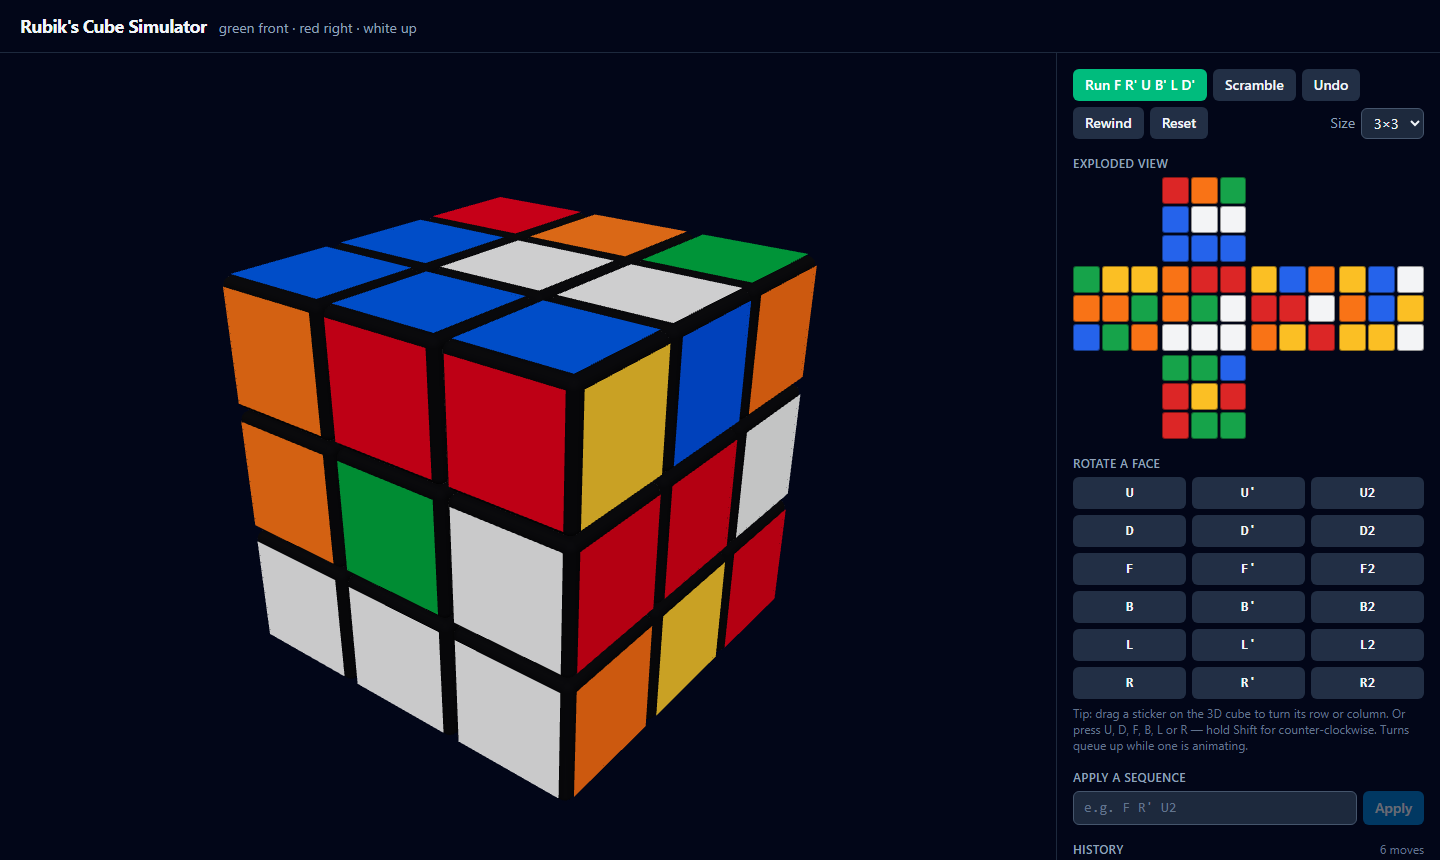
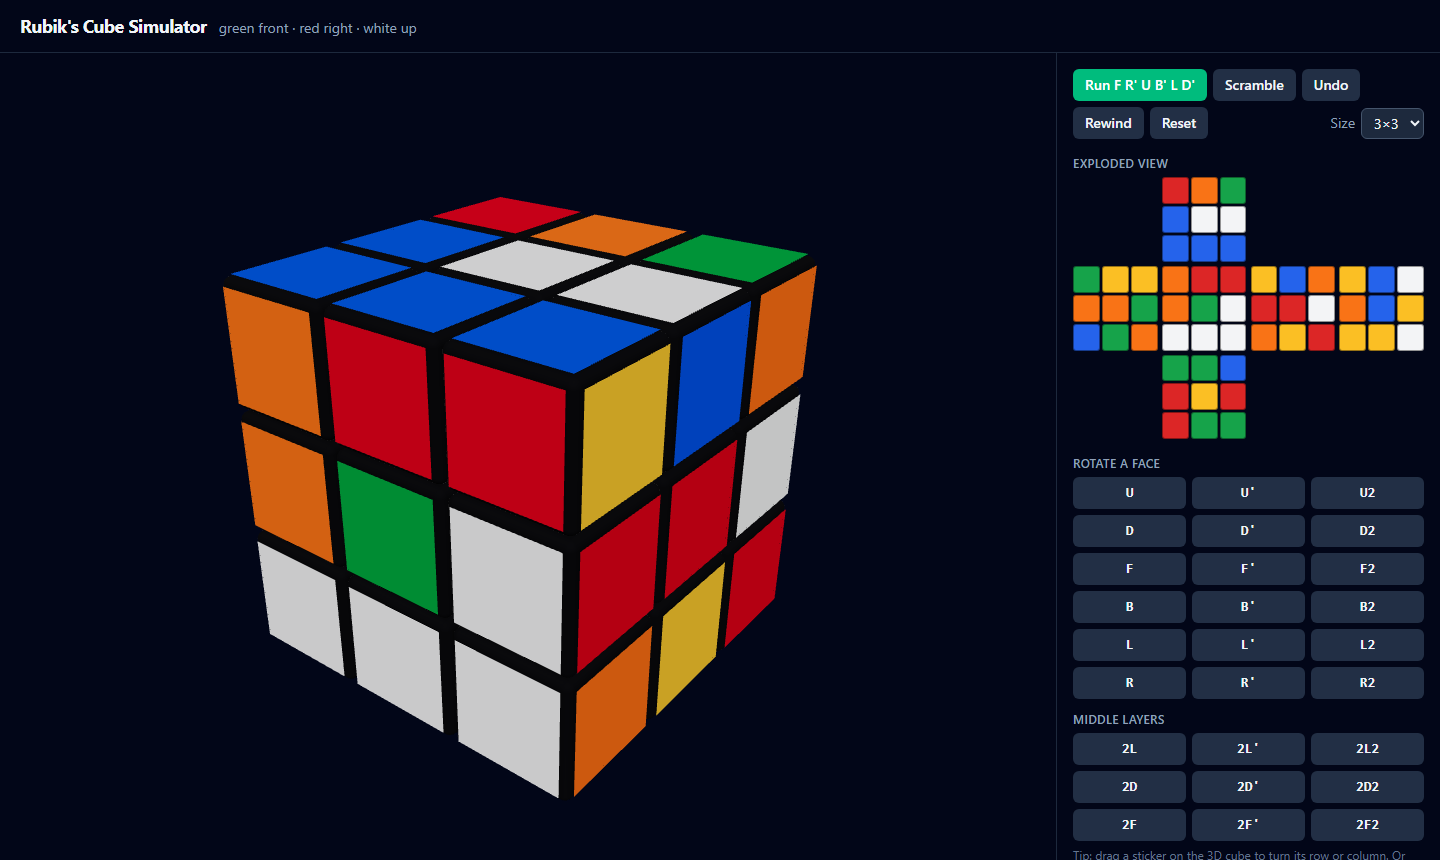
feat(web): middle-layer buttons on the move pad
Every turn reachable by dragging is now reachable by button as well.
The pad grows a size-aware section listing the cube's inner slices
(M, E and S on a 3x3 -- with their classic names as tooltips -- and
the numbered layers of larger cubes); a 2x2 shows no section at all.
The README screenshot is refreshed to match.

Changed region(s): [[0.7188, 0.8163, 1.0, 1.0]]

diff --git a/apps/web/src/components/MovePad.tsx b/apps/web/src/components/MovePad.tsx
@@ -1,35 +1,106 @@
 const FACE_LETTERS = ['U', 'D', 'F', 'B', 'L', 'R'] as const;
 const MODIFIERS = ['', "'", '2'] as const;
 
+/** The M/E/S names a cubist expects for the middle slices of a 3×3. */
+const CLASSIC_SLICE_NAMES: Record<string, string> = {
+  '2L': 'M slice',
+  '2D': 'E slice',
+  '2F': 'S slice',
+};
+
+/**
+ * The distinct inner slices of a cube, each named after its nearest face.
+ * A dead-centre slice (odd cubes) is named after the conventional M/E/S
+ * reference faces: left, down and front.
+ */
+function sliceTokens(size: number): string[] {
+  const tokens: string[] = [];
+  for (let layer = 2; layer <= Math.floor(size / 2); layer++) {
+    for (const letter of FACE_LETTERS) {
+      tokens.push(`${layer}${letter}`);
+    }
+  }
+
+  if (size % 2 === 1) {
+    const middle = (size + 1) / 2;
+    for (const letter of ['L', 'D', 'F']) {
+      tokens.push(`${middle}${letter}`);
+    }
+  }
+
+  return tokens;
+}
+
+interface TurnButtonProps {
+  token: string;
+  disabled: boolean;
+  title?: string;
+  onMove: (notation: string) => void;
+}
+
+function TurnButton({ token, disabled, title, onMove }: TurnButtonProps) {
+  return (
+    <button
+      type="button"
+      disabled={disabled}
+      title={title}
+      onClick={() => onMove(token)}
+      className="rounded-md bg-slate-700/70 px-2 py-2.5 font-mono text-sm font-semibold
+                 text-slate-100 transition hover:bg-slate-600 active:scale-95
+                 disabled:cursor-not-allowed disabled:opacity-40 sm:py-1.5"
+    >
+      {token}
+    </button>
+  );
+}
+
 export interface MovePadProps {
+  size: number;
   disabled: boolean;
   onMove: (notation: string) => void;
 }
 
 /**
- * One button per possible face turn: clockwise, counter-clockwise (') and
- * half turn (2) for each of the six faces.
+ * One button per possible turn: clockwise, counter-clockwise (') and half
+ * turn (2) for each of the six faces, plus the cube's middle layers (slice
+ * moves such as 2L — the M slice of a 3×3) when the size has any.
  */
-export function MovePad({ disabled, onMove }: MovePadProps) {
+export function MovePad({ size, disabled, onMove }: MovePadProps) {
+  const slices = sliceTokens(size);
+
   return (
-    <div className="grid grid-cols-3 gap-1.5" data-testid="move-pad">
-      {FACE_LETTERS.flatMap((letter) =>
-        MODIFIERS.map((modifier) => {
-          const token = letter + modifier;
-          return (
-            <button
-              key={token}
-              type="button"
-              disabled={disabled}
-              onClick={() => onMove(token)}
-              className="rounded-md bg-slate-700/70 px-2 py-2.5 font-mono text-sm font-semibold
-                         text-slate-100 transition hover:bg-slate-600 active:scale-95
-                         disabled:cursor-not-allowed disabled:opacity-40 sm:py-1.5"
-            >
-              {token}
-            </button>
-          );
-        }),
+    <div data-testid="move-pad">
+      <div className="grid grid-cols-3 gap-1.5">
+        {FACE_LETTERS.flatMap((letter) =>
+          MODIFIERS.map((modifier) => {
+            const token = letter + modifier;
+            return <TurnButton key={token} token={token} disabled={disabled} onMove={onMove} />;
+          }),
+        )}
+      </div>
+
+      {slices.length > 0 && (
+        <>
+          <p className="mt-3 mb-1.5 text-xs font-semibold tracking-wide text-slate-400 uppercase">
+            Middle layers
+          </p>
+          <div className="grid grid-cols-3 gap-1.5">
+            {slices.flatMap((slice) =>
+              MODIFIERS.map((modifier) => {
+                const token = slice + modifier;
+                return (
+                  <TurnButton
+                    key={token}
+                    token={token}
+                    disabled={disabled}
+                    title={CLASSIC_SLICE_NAMES[slice]}
+                    onMove={onMove}
+                  />
+                );
+              }),
+            )}
+          </div>
+        </>
       )}
     </div>
   );

diff --git a/apps/web/src/components/MovePad.test.tsx b/apps/web/src/components/MovePad.test.tsx
@@ -6,7 +6,7 @@ import { MovePad } from './MovePad';
 
 describe('MovePad', () => {
   it('offers all eighteen face turns', () => {
-    render(<MovePad disabled={false} onMove={() => {}} />);
+    render(<MovePad size={3} disabled={false} onMove={() => {}} />);
 
     for (const letter of ['U', 'D', 'F', 'B', 'L', 'R']) {
       for (const modifier of ['', "'", '2']) {
@@ -15,17 +15,45 @@ describe('MovePad', () => {
     }
   });
 
+  it('offers the M, E and S slices on a 3x3', () => {
+    render(<MovePad size={3} disabled={false} onMove={() => {}} />);
+
+    for (const slice of ['2L', "2L'", '2L2', '2D', '2F']) {
+      expect(screen.getByRole('button', { name: slice })).toBeInTheDocument();
+    }
+  });
+
+  it('offers every inner layer of a 4x4 and the middle of a 5x5', () => {
+    const { rerender } = render(<MovePad size={4} disabled={false} onMove={() => {}} />);
+    for (const slice of ['2U', '2D', '2F', '2B', '2L', '2R']) {
+      expect(screen.getByRole('button', { name: slice })).toBeInTheDocument();
+    }
+
+    rerender(<MovePad size={5} disabled={false} onMove={() => {}} />);
+    expect(screen.getByRole('button', { name: '3L' })).toBeInTheDocument();
+    expect(screen.getByRole('button', { name: '2R' })).toBeInTheDocument();
+  });
+
+  it('hides the middle-layer section on a 2x2, which has none', () => {
+    render(<MovePad size={2} disabled={false} onMove={() => {}} />);
+
+    expect(screen.queryByText('Middle layers')).not.toBeInTheDocument();
+    expect(screen.getAllByRole('button')).toHaveLength(18);
+  });
+
   it('reports the clicked move in notation', async () => {
     const onMove = vi.fn();
-    render(<MovePad disabled={false} onMove={onMove} />);
+    render(<MovePad size={3} disabled={false} onMove={onMove} />);
 
     await userEvent.click(screen.getByRole('button', { name: "R'" }));
+    await userEvent.click(screen.getByRole('button', { name: "2L'" }));
 
-    expect(onMove).toHaveBeenCalledWith("R'");
+    expect(onMove).toHaveBeenNthCalledWith(1, "R'");
+    expect(onMove).toHaveBeenNthCalledWith(2, "2L'");
   });
 
   it('disables every button while busy', () => {
-    render(<MovePad disabled onMove={() => {}} />);
+    render(<MovePad size={3} disabled onMove={() => {}} />);
 
     for (const button of screen.getAllByRole('button')) {
       expect(button).toBeDisabled();

diff --git a/apps/web/src/App.tsx b/apps/web/src/App.tsx
@@ -111,6 +111,7 @@ export default function App() {
                   Rotate a face
                 </h2>
                 <MovePad
+                  size={session.state.size}
                   disabled={session.busy && !session.queueing}
                   onMove={session.applySequence}
                 />